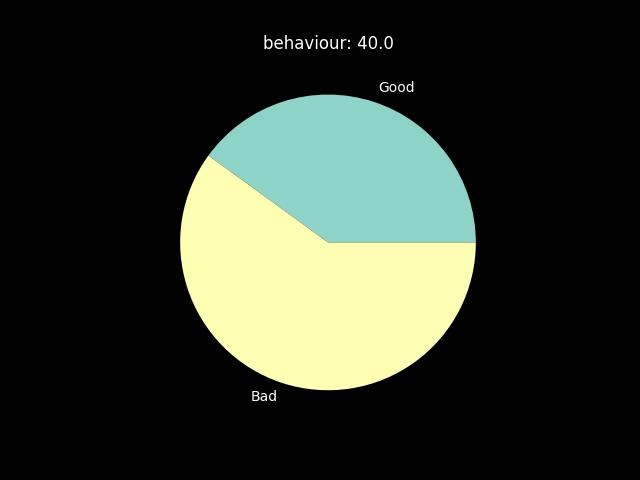
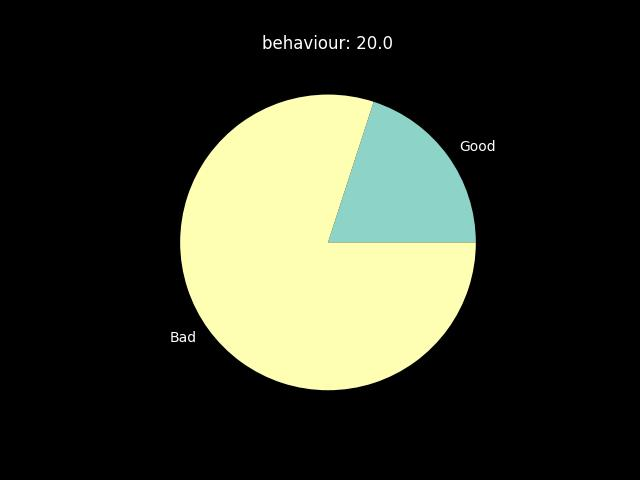
fixed bugs: professioanl can't take more than 2 jobs

diff --git a/templates/user_service_feedback.html b/templates/user_service_feedback.html
@@ -10,11 +10,11 @@
         </div>
         <div class="input-group mb-2">
             <span class="input-group-text width-140" >Professional Name</span>
-            <input type="text" class="form-control" value="{{service_request.professional.user.name}}">
+            <input type="text" class="form-control" value="{{service_request.professional.user.name}}" readonly>
         </div>
         <div class="input-group mb-2">
             <span class="input-group-text width-140" >Price</span>
-            <input type="text" class="form-control" value="{{service_request.services.price}}">
+            <input type="text" class="form-control" value="{{service_request.services.price}}" readonly>
         </div>
         <div class="input-group mb-2">
             <span class="input-group-text width-140" >Rating</span>

diff --git a/backend/controllers.py b/backend/controllers.py
@@ -45,20 +45,24 @@ def login_page():
 def user_info():
     if current_user.role==0:
         plot = get_plt_user_stats()
-        plot.savefig("./static/image/plots/users_summery.jpeg")
-        plot.clf()
+        if plot:
+            plot.savefig("./static/image/plots/users_summery.jpeg")
+            plot.clf()
 
         plot = get_plt_services_stats()
-        plot.savefig("./static/image/plots/services_summery.jpeg")
-        plot.clf()
+        if plot:
+            plot.savefig("./static/image/plots/services_summery.jpeg")
+            plot.clf()
     else:
         plot = get_plt_ratings()
-        plot.savefig("./static/image/plots/rating_summery.jpeg")
-        plot.clf()
+        if plot:
+            plot.savefig("./static/image/plots/rating_summery.jpeg")
+            plot.clf()
 
         plot = get_plt_service_rating()
-        plot.savefig("./static/image/plots/service_rating_summery.jpeg")
-        plot.clf()
+        if plot:
+            plot.savefig("./static/image/plots/service_rating_summery.jpeg")
+            plot.clf()
 
 
     return render_template("user_info.html")
@@ -327,7 +331,7 @@ def user_feedback_page(service_id):
             service_request.rating = rating
             service_request.remarks = remarks
             db.session.commit()
-            flash("Thankyou for your response.", category="info")
+            flash("Thank you for your response.", category="info")
 
             return redirect(url_for("user_requests_tab"))
         except:
@@ -359,16 +363,19 @@ def professional_page():
 # Accept request
 @app.route("/accept_request/<int:request_id>", methods=["GET", "POST"])
 def accept_request(request_id):
-    service_request = ServiceRequest.query.get(request_id)
-    service_request.professional_id = current_user.professional_info.id # Assigning the current professional to the job
-    service_request.status = 1 # changing the status to accepted
-    try:
-        db.session.commit()
-        flash("Job accepted successfuly.", category="info")
-        return redirect(url_for("professional_page"))
-    except:
-        db.session.rollback()
-        flash("Something went wrong! Job not assigned.", category="danger")
+    if current_user.professional_info.ready_for_work():
+        service_request = ServiceRequest.query.get(request_id)
+        service_request.professional_id = current_user.professional_info.id # Assigning the current professional to the job
+        service_request.status = 1 # changing the status to accepted
+        try:
+            db.session.commit()
+            flash("Job accepted successfuly.", category="info")
+            return redirect(url_for("professional_page"))
+        except:
+            db.session.rollback()
+            flash("Something went wrong! Job not assigned.", category="danger")
+    else:
+        flash("Accepted jobs limit reached.", category="danger")
 
     return redirect(url_for("professional_page"))
 
@@ -494,82 +501,90 @@ def get_plt_user_stats():
     customers = len(User.query.filter(User.role==1).all())
     professonals = len(User.query.filter(User.role==2).all())
 
-    if total_users > 0:
-        frac_cust = (customers/total_users)*100
-        frac_pro = (professonals/total_users)*100
-    else:
-        frac_cust = 0
-        frac_pro = 0
+    try:
+        if total_users > 0:
+            frac_cust = (customers/total_users)*100
+            frac_pro = (professonals/total_users)*100
+        else:
+            frac_cust = 0
+            frac_pro = 0
 
-    data = [frac_cust, frac_pro]
-    labels = ["Customers", "Professtionals"]
-    plt.pie(data, labels=labels, autopct='%1.1f%%')
-    plt.title("Users Summary")
-    return plt
+        data = [frac_cust, frac_pro]
+        labels = ["Customers", "Professtionals"]
+        plt.pie(data, labels=labels)
+        plt.title("Users Summary")
+        return plt
+    except:
+        pass
 
 # Services Stats
 def get_plt_services_stats():
     plt.style.use('dark_background')
 
-    # Services list
-    services_list = []
-    services_counts = [] # Numbers of requests of respective service type
-    services = Service.query.all()
-    for service in services:
-        services_list.append(service.name)
-        services_counts.append(len(service.service_requests))
+    try:
+        # Services list
+        services_list = []
+        services_counts = [] # Numbers of requests of respective service type
+        services = Service.query.all()
+        for service in services:
+            services_list.append(service.name)
+            services_counts.append(len(service.service_requests))
 
-    plt.bar(services_list, services_counts)
-    plt.title("Services Summary")
-    plt.xlabel("Services Type")
-    plt.ylabel("No. of requests")
-    return plt
+        plt.bar(services_list, services_counts)
+        plt.title("Services Summary")
+        plt.xlabel("Services Type")
+        plt.ylabel("No. of requests")
+        return plt
+    except:
+        pass
 
 #Ratings chart
 def get_plt_ratings():
     plt.style.use('dark_background')
 
 
-    rating = current_user.update_ratings()
+    try:
+        rating = current_user.update_ratings()
 
-    good = (rating/5)*100
-    bad = 100-good
+        good = (rating/5)*100
+        bad = 100-good
 
-    data = [good, bad]
-    labels = ["Good", "Bad"]
-    plt.pie(data, labels=labels)
-    plt.title(f"behaviour: {good}")
-    return plt
-
+        data = [good, bad]
+        labels = ["Good", "Bad"]
+        plt.pie(data, labels=labels)
+        plt.title(f"behaviour: {good}")
+        return plt
+    except:
+        pass
+    
 # Service rating
 def get_plt_service_rating():
-    if current_user.professional_info:
-        ser_reqs = current_user.professional_info.service_requests
-    else:
-        ser_reqs = current_user.service_requests
-
-    services_req_list = []
-    services_req_counts = []
-    for ser_req in ser_reqs:
-        services_req_list.append(str(ser_req.id))
-        if ser_req.rating:
-            services_req_counts.append(ser_req.rating)
+    try:
+        if current_user.professional_info:
+            ser_reqs = current_user.professional_info.service_requests
         else:
-            services_req_counts.append(0)
+            ser_reqs = current_user.service_requests
 
-    print("ids",services_req_list)
-    print("ratings", services_req_counts)
-    plt.bar(services_req_list, services_req_counts)
-    plt.title("Services Summary")
-    plt.xlabel("Service Request Id")
-    plt.ylabel("Rating")
-    return plt
+        services_req_list = []
+        services_req_counts = []
+        for ser_req in ser_reqs:
+            services_req_list.append(str(ser_req.id))
+            if ser_req.rating:
+                services_req_counts.append(ser_req.rating)
+            else:
+                services_req_counts.append(0)
 
-    
-    
-    
+        print("ids",services_req_list)
+        print("ratings", services_req_counts)
+        plt.bar(services_req_list, services_req_counts)
+        plt.title("Services Summary")
+        plt.xlabel("Service Request Id")
+        plt.ylabel("Rating")
+        return plt
+    except:
+        pass
 
 
-
+admin = User(email="manish@gmail.com", password="123456", role=0, name="Manish kumar", address="Nihal Vihar", pincode=110041)
 
 

diff --git a/backend/modals.py b/backend/modals.py
@@ -59,9 +59,10 @@ class Professional(db.Model):
 
     # Ready for work 
     def ready_for_work(self):
-        service_request = ServiceRequest.query.filter(ServiceRequest.professional.id == self.id, ServiceRequest.status==1)
+        service_request = self.service_requests # Accepted jobs limited to 2
         if service_request:
-            return False
+            if len(service_request) > 2:
+                return False
         return True
 
 
